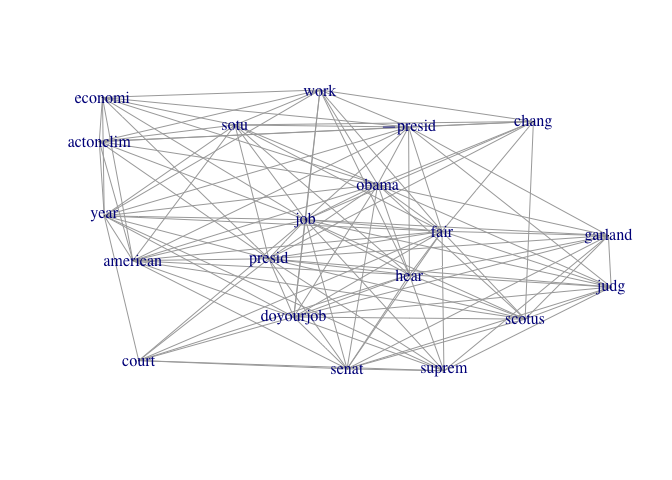
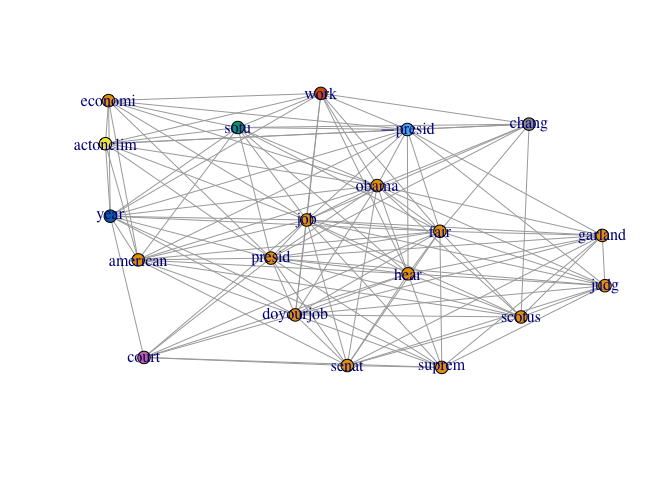
Added section titles

Changed region(s): [[0.0938, 0.1562, 0.9375, 0.7812]]

diff --git a/twitter_net.md b/twitter_net.md
@@ -26,7 +26,8 @@ library(twitteR)
 setup_twitter_oauth(consumer_key, consumer_secret, access_token, access_token_secret)
 ```
 
-Now, we gather tweets of the user BarackObama
+## Collecting data
+The data that we will be using is tweets by Barack Obama.  
 
 ```r
 maxID <- NULL
@@ -41,7 +42,8 @@ while(n_tweets < N_TWEETS) {
 }
 ```
 
-Extract a corpus and a TermDocumentMatrix
+## Basic exploration of the data
+Extract a corpus and a TermDocumentMatrix:
 
 ```r
 # This function returns the most frequent terms in a TermDocumentMatrix
@@ -176,7 +178,8 @@ frequent <- getMostFrequentTerms(myDtm, 20)
 frequentTermMatrix <- termMatrix[names(frequent),names(frequent)]
 ```
 
-Now, we construct a graph from the most frequent terms
+## Basic graphs
+We construct a graph from the most frequent terms:
 
 ```r
 # make a binary matrix
@@ -196,7 +199,10 @@ plot(g, layout=lay)
 
 ![](twitter_net_files/figure-html/unnamed-chunk-8-1.png)
 
-Adding clustering:
+## Clustering
+
+### `walktrap` clustering
+Adding clustering using the `walktrap` strategy:
 
 ```r
 # Now add clustering to the graph
@@ -229,6 +235,44 @@ modularity(community)
 ## [1] 0.1143865
 ```
 
+### `edge betweenness` clustering
+
+Now clustering using the `edge betweenness` strategy:
+
+```r
+# Now add clustering to the graph
+community <- edge.betweenness.community(g)
+plot(g, layout=lay, vertex.size=5, vertex.color=community$membership, asp=FALSE)
+```
+
+![](twitter_net_files/figure-html/unnamed-chunk-12-1.png)
+
+We got 9 communities. The size of each community:
+
+
+```r
+sizes(community)
+```
+
+```
+## Community sizes
+##  1  2  3  4  5  6  7  8  9 
+## 12  1  1  1  1  1  1  1  1
+```
+
+The modularity of `edge betweenness`:
+
+```r
+modularity(community)
+```
+
+```
+## [1] 0.0303288
+```
+
+## Centrality metrics
+
+### Betweenness
 We want to show the betweenness of each term: 
 
 ```r
@@ -244,15 +288,15 @@ t(betweenness(g))
 ## [1,] 1.172222 0.7873377 0.2159091 0.9289683 0.2833333  3.08456
 ```
 
-And show it on the graph, together with the clusters:
+And plot it on the graph, together with the clusters:
 
 ```r
 plot(g, layout=lay, vertex.color=community$membership, vertex.size=betweenness(g), asp=FALSE)
 ```
 
-![](twitter_net_files/figure-html/unnamed-chunk-13-1.png)
+![](twitter_net_files/figure-html/unnamed-chunk-16-1.png)
 
-Same goes for closeness:
+### Closeness
 
 ```r
 t(closeness(g))
@@ -273,7 +317,7 @@ t(closeness(g))
 plot(g, layout=lay, vertex.color=community$membership, vertex.size=closeness(g), asp=FALSE)
 ```
 
-![](twitter_net_files/figure-html/unnamed-chunk-14-1.png)
+![](twitter_net_files/figure-html/unnamed-chunk-17-1.png)
 
 And as closeness generates small values, we will increases the vertexes size:
 
@@ -296,10 +340,12 @@ t(g.closeness.normalized)
 plot(g, layout=lay, vertex.color=community$membership, vertex.size=g.closeness.normalized, asp=FALSE)
 ```
 
-![](twitter_net_files/figure-html/unnamed-chunk-15-1.png)
+![](twitter_net_files/figure-html/unnamed-chunk-18-1.png)
 
-Same goes for eigen values:  
+### Eigen values
+
 **For eigenvalues, we will not show a graph, due to negative values.**
+
 
 ```r
 eigen_values <- eigen(frequentTermMatrix)$values
